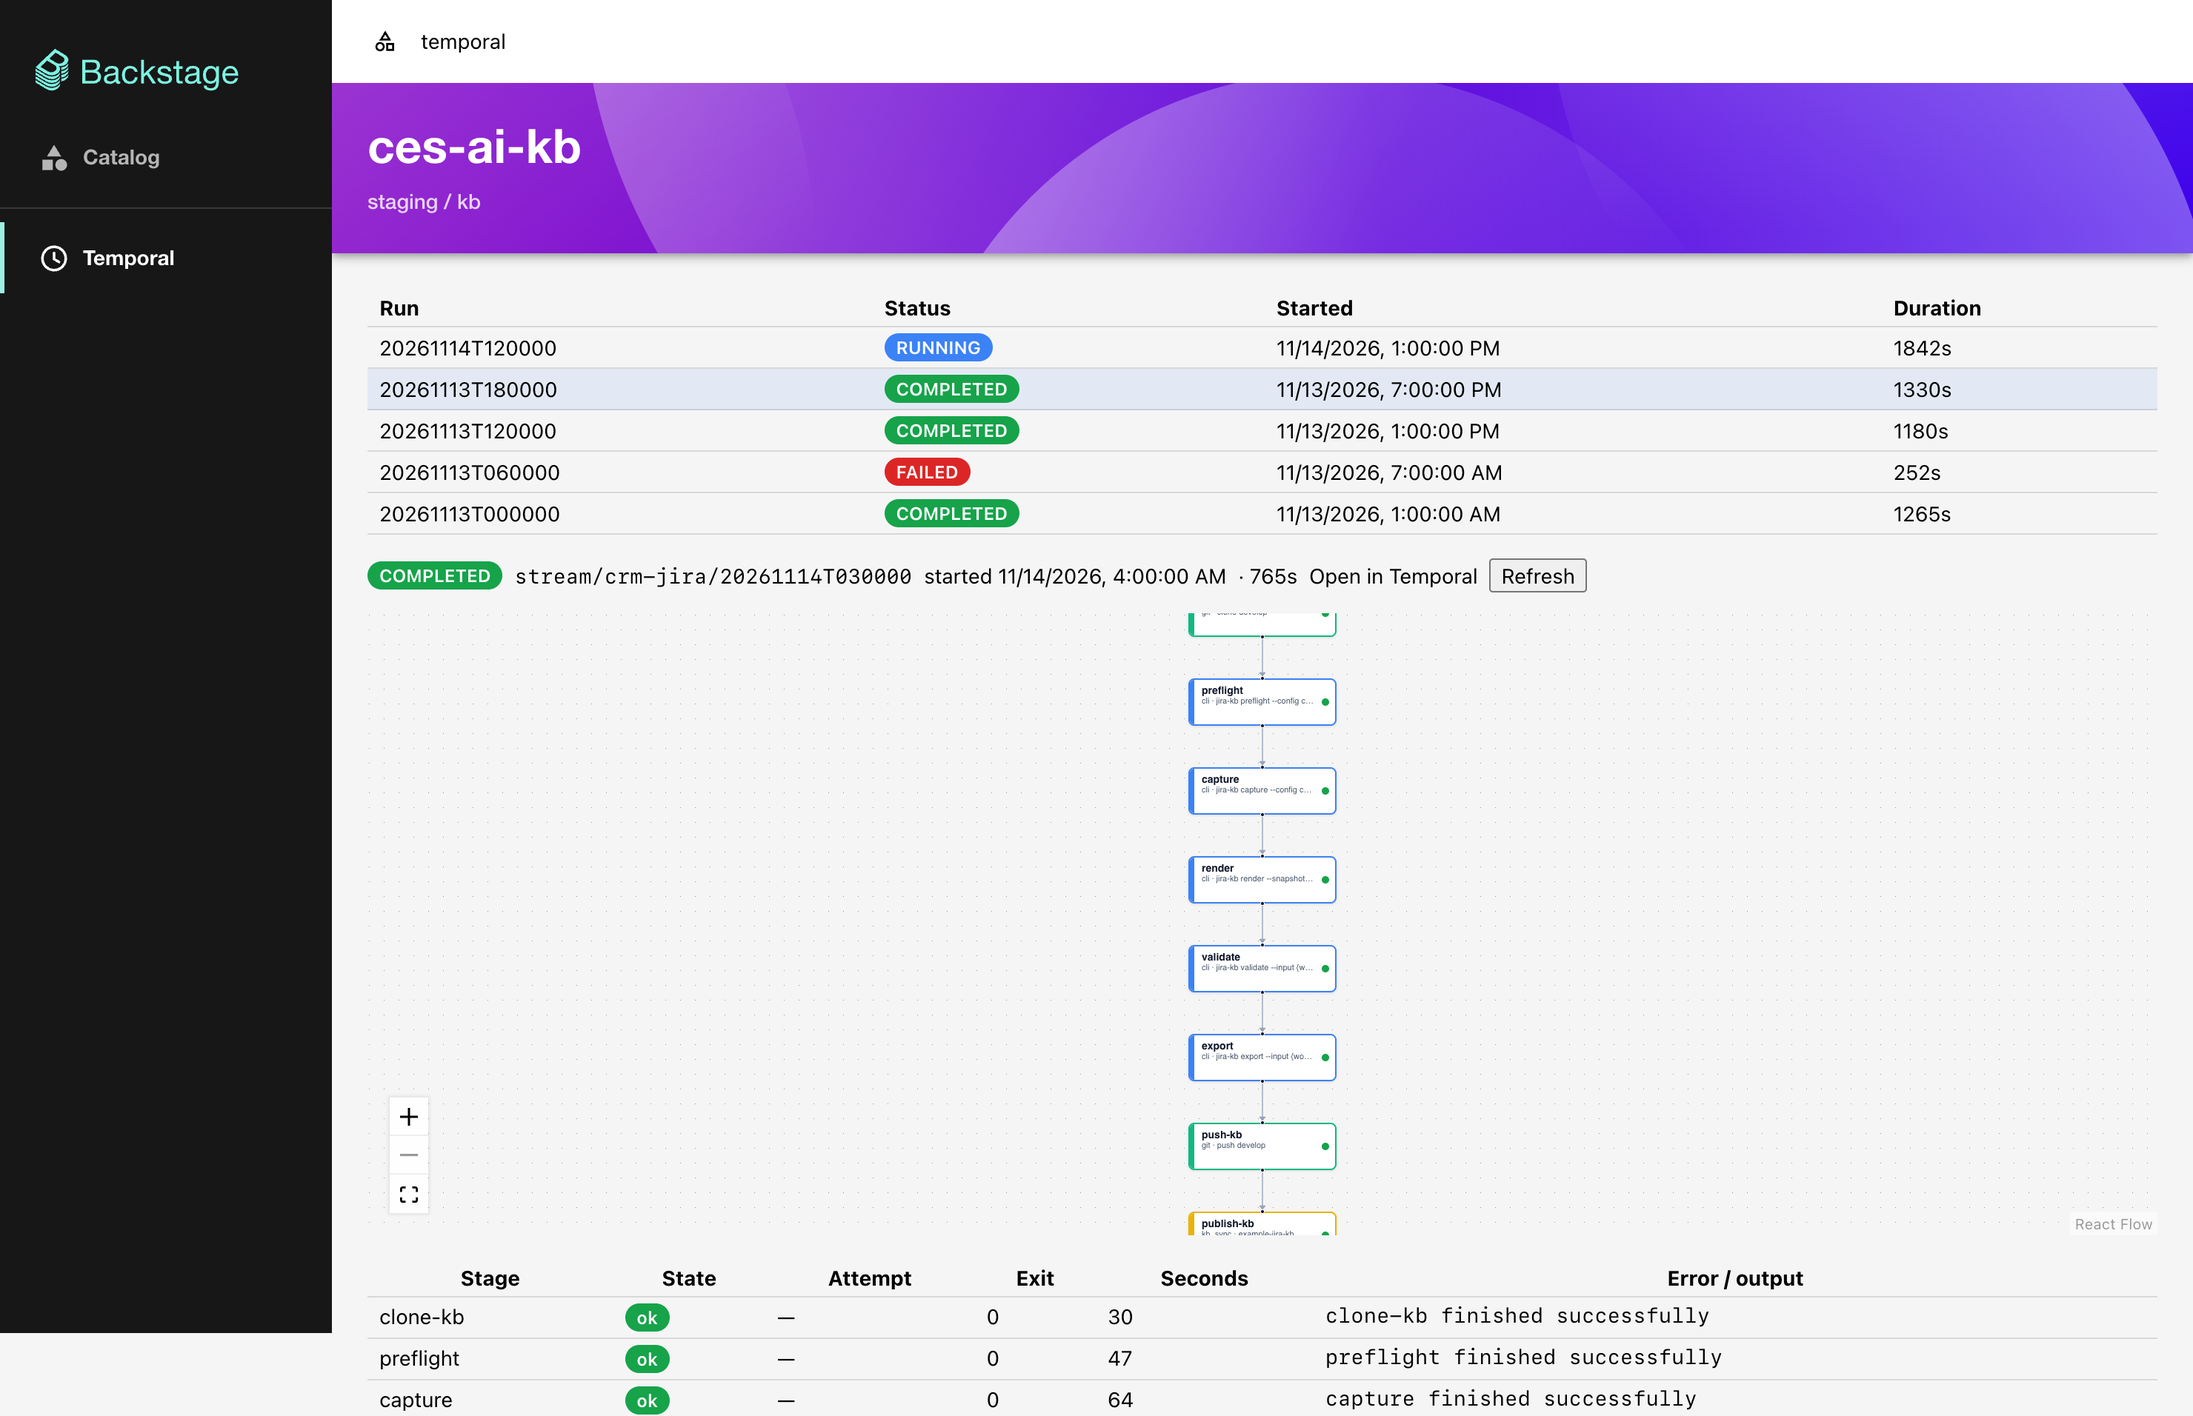
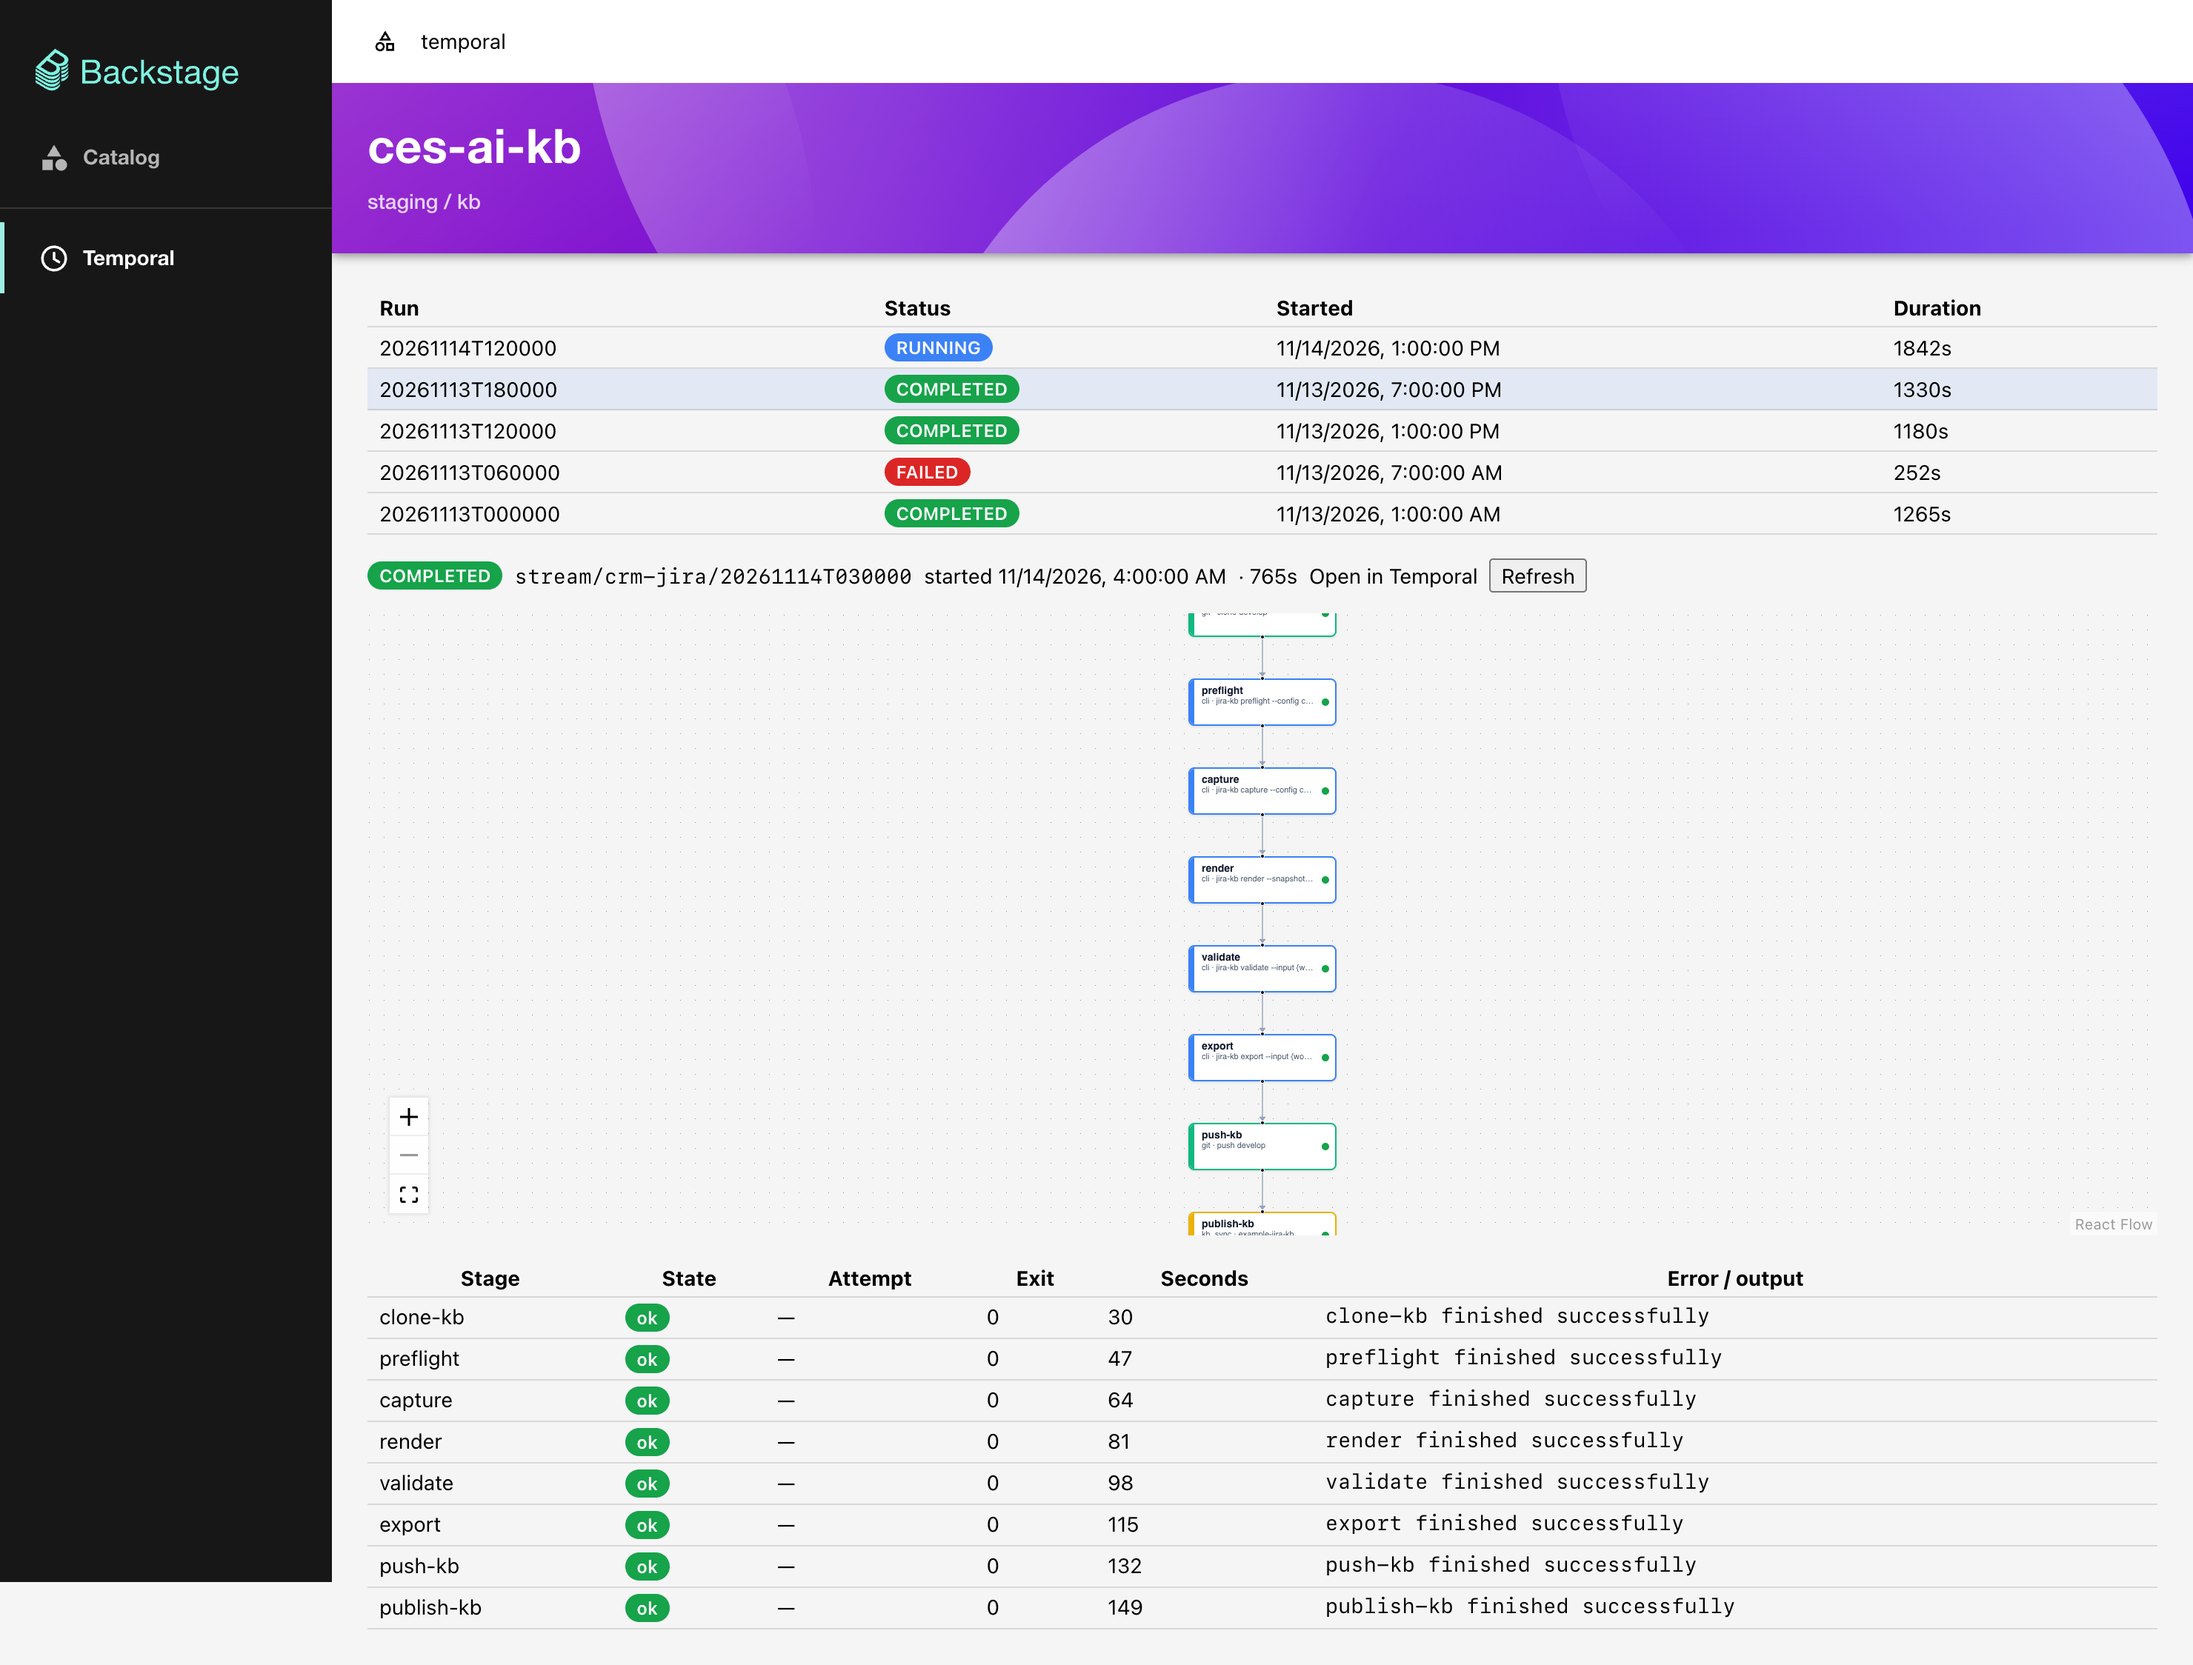
fix(ui): compact KPI cards, readable breadcrumb, table titles; full-page screenshots

diff --git a/plugins/temporal/src/components/WorkflowPage.tsx b/plugins/temporal/src/components/WorkflowPage.tsx
@@ -5,7 +5,7 @@
 
 import { Fragment, useMemo, type ReactNode } from 'react';
 import { Content, Header, InfoCard, Link, Page, Table, type TableColumn } from '@backstage/core-components';
-import { Accordion, AccordionDetails, AccordionSummary, Grid, Typography } from '@material-ui/core';
+import { Accordion, AccordionDetails, AccordionSummary, Card, CardContent, Grid, Typography } from '@material-ui/core';
 import ExpandMoreIcon from '@material-ui/icons/ExpandMore';
 import type {
   ScheduleDetail,
@@ -25,7 +25,7 @@ import { WorkflowDiagram } from './WorkflowDiagram';
 
 type ScheduleAction = ScheduleDetail['recentActions'][number];
 const NOT_AVAILABLE = 'Not available (requires temporal.run.read)';
-const tableOptions = { paging: false, search: false, toolbar: false, padding: 'dense' as const };
+const tableOptions = { paging: false, search: false, padding: 'dense' as const };
 
 const when = (value?: string) => (value ? new Date(value).toLocaleString() : '—');
 
@@ -34,9 +34,16 @@ function Kpis({ items }: { items: [string, ReactNode][] }) {
     <Grid container spacing={2}>
       {items.map(([label, value]) => (
         <Grid item key={label} xs={12} sm={6} md={3}>
-          <InfoCard variant="gridItem" title={label}>
-            <div style={{ wordBreak: 'break-all' }}>{value}</div>
-          </InfoCard>
+          <Card>
+            <CardContent>
+              <Typography variant="overline" color="textSecondary">
+                {label}
+              </Typography>
+              <Typography variant="body1" component="div" style={{ wordBreak: 'break-all' }}>
+                {value}
+              </Typography>
+            </CardContent>
+          </Card>
         </Grid>
       ))}
     </Grid>
@@ -60,7 +67,6 @@ function Payload({ label, value, missing }: { label: string; value: unknown; mis
 function ScheduleCards({ schedule, cluster, namespace }: { schedule: ScheduleDetail; cluster: string; namespace: string }) {
   const { spec } = schedule;
   const actions: TableColumn<ScheduleAction>[] = [
-    { title: 'Scheduled at', render: a => when(a.scheduledAt) },
     { title: 'Taken at', render: a => when(a.takenAt) },
     {
       title: 'Workflow',
@@ -202,7 +208,14 @@ export function WorkflowPage() {
 
   const crumbs = (
     <nav aria-label="Breadcrumb">
-      <Link to="/temporal">Temporal</Link> › <Link to={workflowsLink({ cluster, namespace })}>Workflows</Link> › {workflowId}
+      <Link to="/temporal" color="inherit">
+        Temporal
+      </Link>{' '}
+      ›{' '}
+      <Link to={workflowsLink({ cluster, namespace })} color="inherit">
+        Workflows
+      </Link>{' '}
+      › {workflowId}
     </nav>
   );
 
